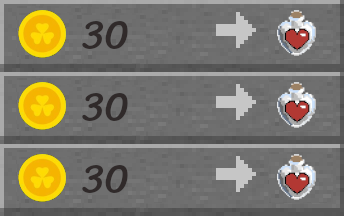
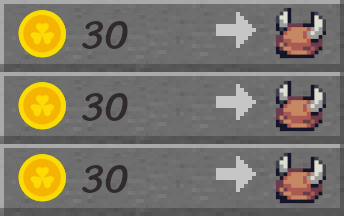
(|) armor item

Changed region(s): [[0.7849, 0.0278, 0.9593, 0.2778], [0.7849, 0.6944, 0.9593, 0.9444], [0.7849, 0.3611, 0.9593, 0.6111]]

diff --git a/src/spritesheets/init_spritesheets_item.c b/src/spritesheets/init_spritesheets_item.c
@@ -31,9 +31,9 @@ void init_spritesheets_flask(spritesheet_t *spritesheet)
     set_one_sprite("assets/img/item/flask_attack.png",
     &spritesheet[SP_FLASK_ATTACK],
     (init_sprite_t){{100, 100}, {1, 1}, {0, 0, 36, 42}, true, false, false});
-    set_one_sprite("assets/img/item/flask_life.png",
-    &spritesheet[SP_FLASK_LIFE],
-    (init_sprite_t){{100, 100}, {0.15, 0.15}, {0, 0, 229, 268}, true, false,
+    set_one_sprite("assets/img/item/armor.png",
+    &spritesheet[SP_ITEM_ARMOR],
+    (init_sprite_t){{100, 100}, {1.5, 1.5}, {0, 0, 26, 26}, true, false,
     false});
     set_one_sprite("assets/img/item/flask_speed.png",
     &spritesheet[SP_FLASK_SPEED],

diff --git a/src/interface/check_click_items_inv.c b/src/interface/check_click_items_inv.c
@@ -27,7 +27,7 @@ static int get_nearest_index_inventory(rpg_t *rpg)
     for (int i = 0; i < 11; ++i) {
         if (i == I_ATTACK && !check_weapon(rpg))
             ++i;
-        if (i == I_ARMOR)
+        if (i == I_ARMOR && get_item_inv(rpg, I_CASE_MOVE) != SP_ITEM_ARMOR)
             ++i;
         pos_mouse = rpg->all_events.mouse.pos_view;
         pos_case = rpg->player_stats.inventory.inventory_case[i].pos;

diff --git a/src/init/init_inventory.c b/src/init/init_inventory.c
@@ -27,4 +27,5 @@ void init_inventory(inventory_t *inventory, rpg_t *rpg)
     inventory->inventory_case[I_CASE_2].item_spritesheet = SP_ITEM_SHOVEL;
     inventory->inventory_case[I_CASE_3].item_spritesheet = SP_ITEM_BEETS;
     inventory->inventory_case[I_CASE_3].item_spritesheet = SP_FLASK_ATTACK;
+    // inventory->inventory_case[I_CASE_4].item_spritesheet = SP_ITEM_ARMOR;
 }

diff --git a/src/interface/functions_pointers/gui_shop.c b/src/interface/functions_pointers/gui_shop.c
@@ -27,7 +27,7 @@ void put_shop_gui(rpg_t *rpg)
 void shop_button1(rpg_t *rpg)
 {
     if (remove_money(rpg, 30) != 84)
-        add_item_inventory(rpg, SP_FLASK_LIFE);
+        add_item_inventory(rpg, SP_ITEM_ARMOR);
 }
 
 void shop_button2(rpg_t *rpg)

diff --git a/include/enum.h b/include/enum.h
@@ -84,7 +84,7 @@ enum sprites {
     SP_ITEM_TOMATE,
     SP_ITEM_STRAWBERRY,
     SP_ITEM_BEETS,
-    SP_FLASK_LIFE,
+    SP_ITEM_ARMOR,
     SP_FLASK_SPEED,
     SP_FLASK_ATTACK,
     SP_FLASK_DRUNK,
